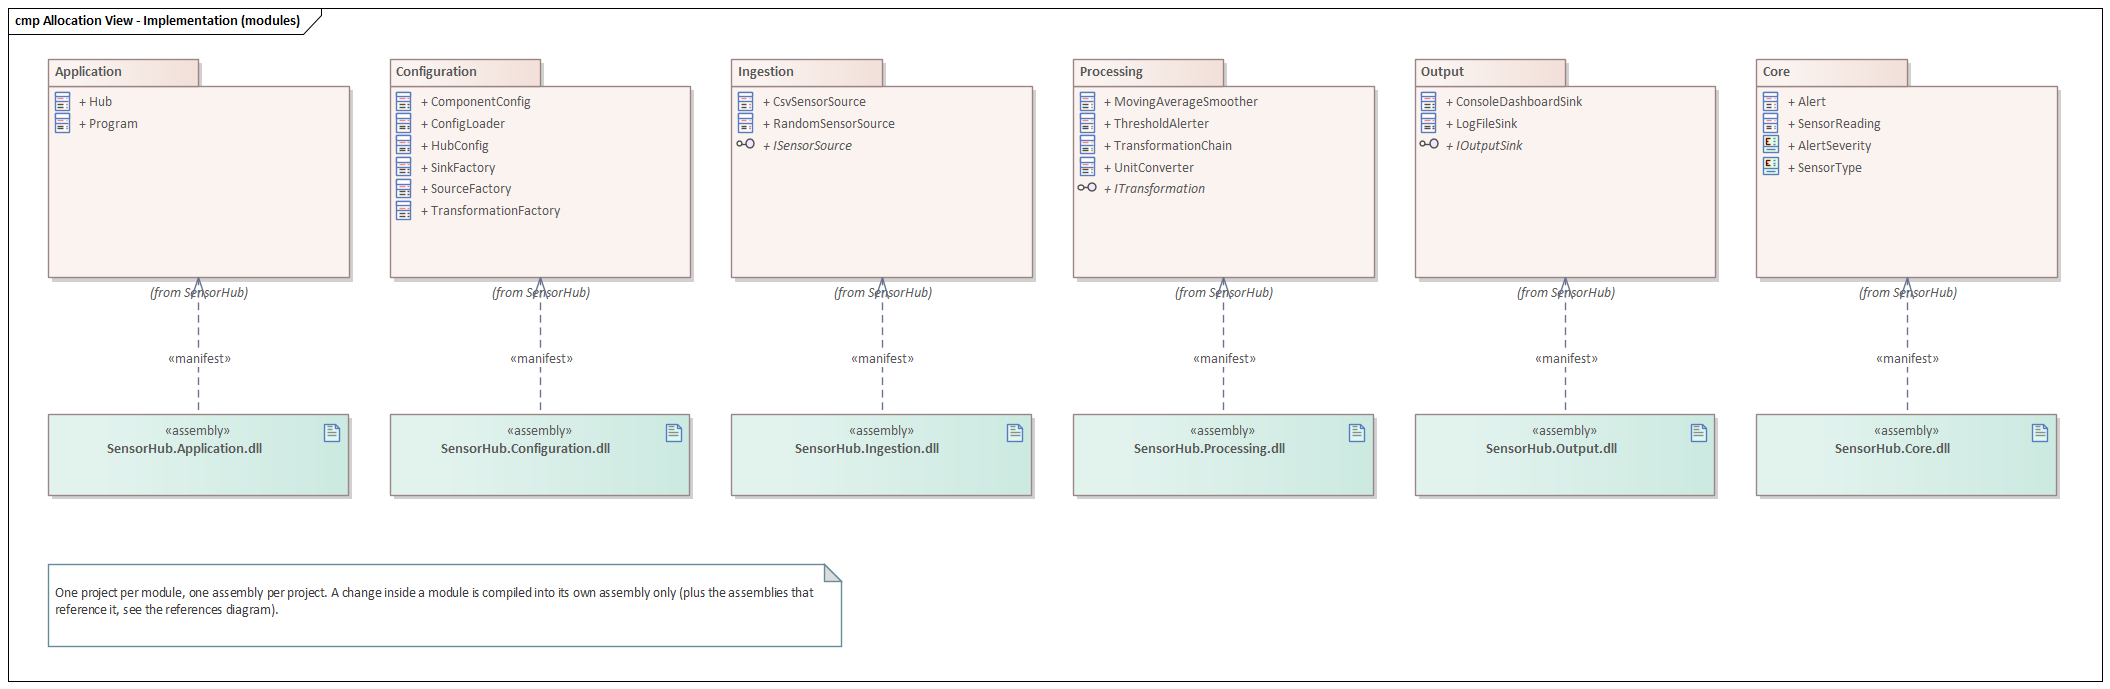
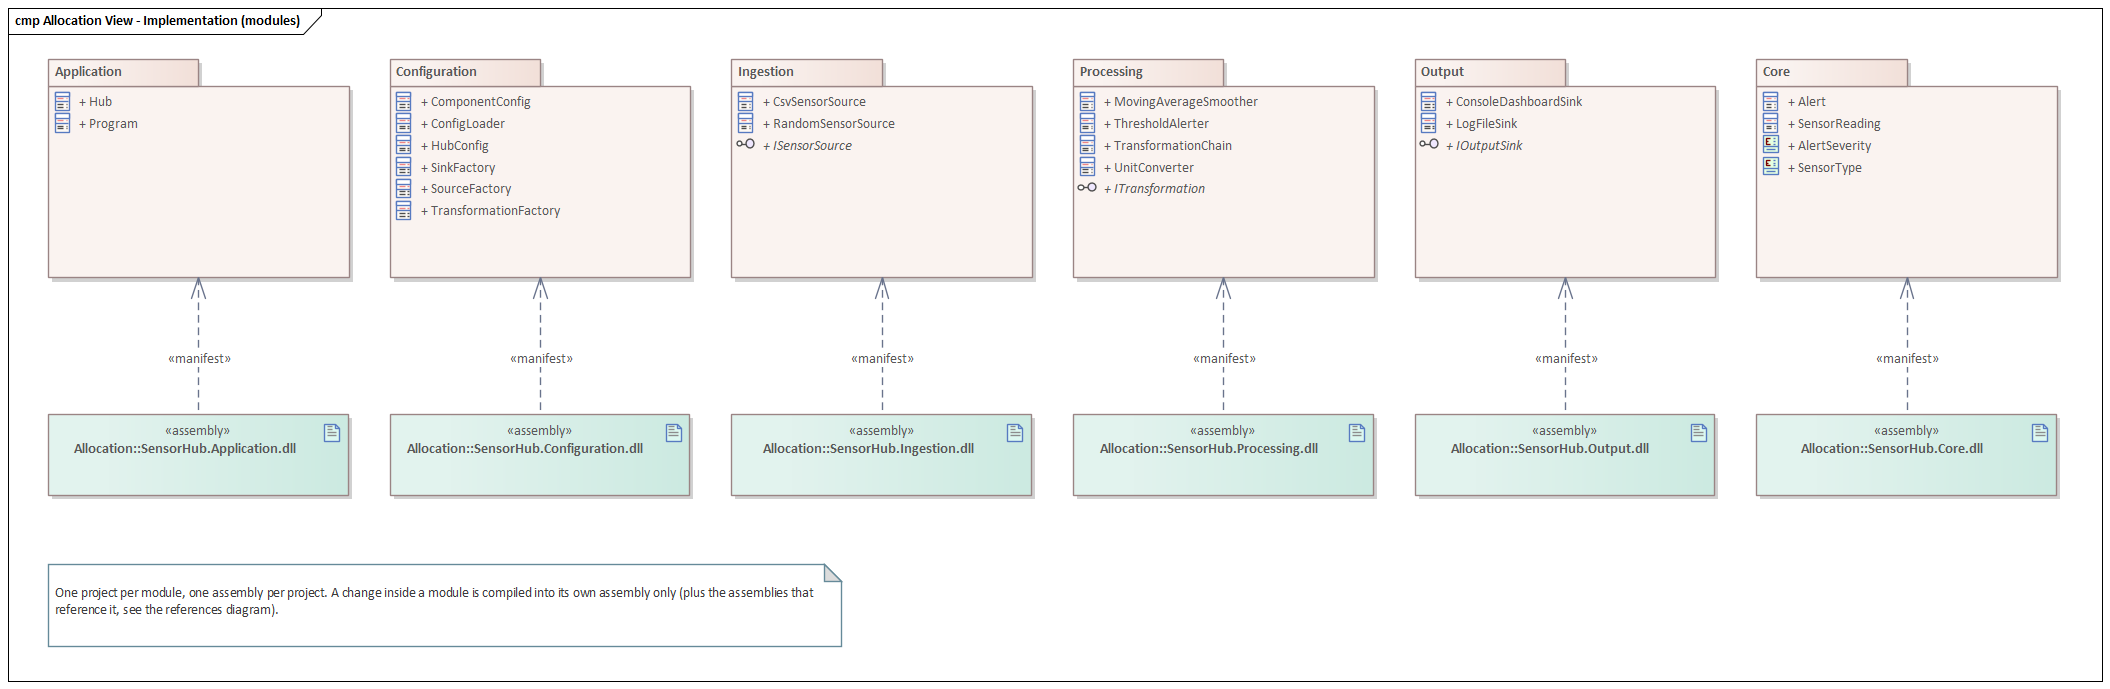
docs(allocation-view): remove the "(from SensorHub)" labels from the modules diagram
The diagram moves to the SensorHub package, next to the module packages it shows, so EA no longer prints "(from SensorHub)" over the manifest arrows.

diff --git a/Documentation/SensorHub_Allocation_View.md b/Documentation/SensorHub_Allocation_View.md
@@ -4,7 +4,7 @@ This document describes the allocation view of the Sensor Data Processing Hub: h
 
 The view is written to show modifiability: for each likely change, it tells which project is edited, which assemblies are rebuilt and what is redeployed.
 
-In the UML model, the view is the package `SensorHub / Allocation` with three diagrams:
+In the UML model, the view is made of three diagrams. The two last ones are in the package `SensorHub / Allocation`; the first one is in the package `SensorHub`, next to the module packages it shows (this way EA does not print "(from SensorHub)" under each package):
 
 | Diagram | Style | Shows |
 |---|---|---|
